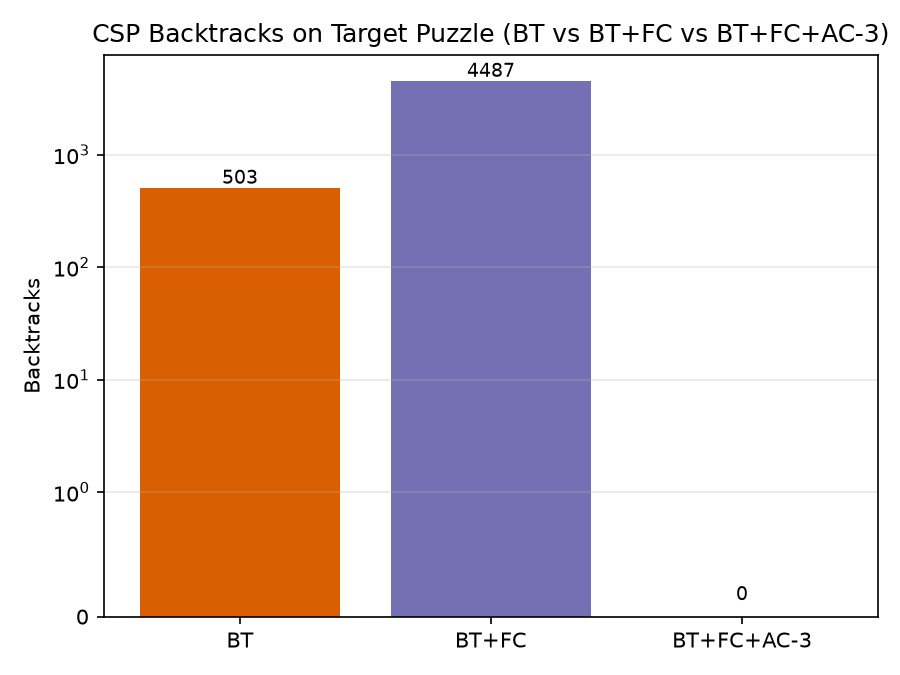
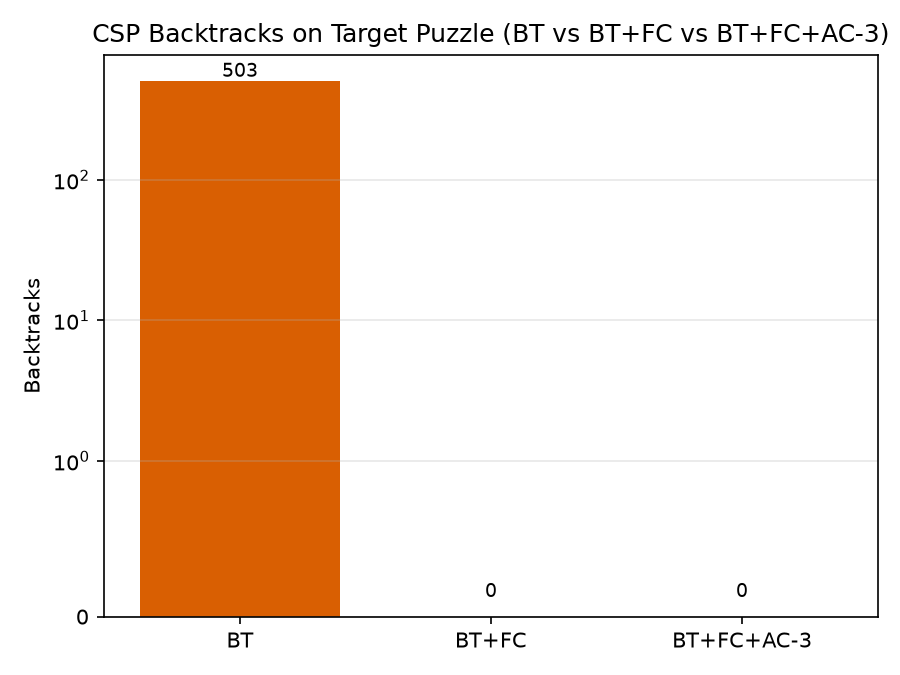
Add final documentation (REPORT, SLIDES, DEMO_SCRIPT, QA_PREP, CONTRIBUTION_TEMPLATE) and clean-state audit updates

diff --git a/REPORT.md b/REPORT.md
@@ -1,0 +1,185 @@
+# Handwritten Sudoku Reader and Solver (Project P7) — Technical Report
+
+## 1. Problem Statement & Motivation
+Optical Sudoku readers often misclassify one or more ambiguous handwritten digits. Even a single misread digit can turn a valid puzzle into an inconsistent or unsolvable constraint satisfaction problem (CSP), causing a standard Sudoku solver to fail.
+
+Project P7 combines three AI techniques into one pipeline:
+1. **Calibrated Neural Network (`DigitMLP`)**: Classifies non-blank `28x28` handwritten digit patches (`1–9`) and outputs calibrated probabilities via temperature scaling.
+2. **Constraint Satisfaction Problem (`CSPSolver`)**: Checks consistency of the `9x9` grid and solves Sudoku using Backtracking (MRV ordering), Forward Checking (`use_fc`), and Arc Consistency (`use_ac3`).
+3. **Correction Search (`UCS`, `Greedy`, `A*`)**: When the initial reading is unsolvable or ambiguous, searches over minimum-penalty cell corrections guided by the NN's probability distribution until the CSP verifies a solvable (or uniquely solvable) puzzle.
+
+---
+
+## 2. System Architecture & Design Choices
+
+### 2.1 Dataset & Preprocessing (`make_data.py`, `data/`)
+- **MNIST Digits `1–9`**: Starting from standard MNIST (`60,000` train / `10,000` test, `28x28` grayscale), pixel intensities are scaled to `[0.0, 1.0]`. Digit `0` is dropped first (`5,923` dropped from train, `980` from test) because Sudoku uses digits `1–9`.
+- **Single Label-Mapping Helper**: [`digit_to_index`](data/labels.py) and [`index_to_digit`](data/labels.py) map digits `1–9` to class indices `0–8` across all modules.
+- **Train / Validation / Test Split**: With `--seed 42`, the `54,077` non-zero training images are split into **`50,000` train** and **`4,077` validation** images; the **`9,020` test** images remain untouched (`data/DATA_DICTIONARY.md`).
+- **Blank Cell Rule**: Blank cells are detected by [`is_blank_cell`](data/labels.py) using mean pixel intensity `< 0.01`, not by the neural network. Across all `9,020` non-zero MNIST test digits, the minimum mean pixel intensity is `0.0281`, yielding `0` blank-detection errors across `500` evaluated mosaics (`results/mosaic_injection_report.json`).
+
+### 2.2 Puzzle & Mosaic Generation (`data/sudoku_generator.py`, `integration/reader.py`)
+- **Puzzles**: Complete `9x9` grids are built by randomized backtracking (`generate_full_grid`). Cells are removed in random order while preserving uniqueness (`count_solutions(puzzle, limit=2) == 1`) until the target givens (`25`, `30`, or `35`) remain.
+- **Post-Training Hard-Digit Injection**: `252x252` mosaics are generated **after** `DigitMLP` is trained. Normal givens sample from `easy_correct` (MNIST test images predicted correctly with confidence `>= 0.90`). To inject `k` misreads (`0..4`), `k` given cells are replaced with MNIST test images of the same true digit from `hard_misread` (test images misclassified by the trained NN, without replacement within a puzzle; fallback to `low_confidence` sorted by highest second-best probability if exhausted).
+- Across `100` mosaics per level `k = 0..4` (`30` givens, base seed `42` in `results/mosaic_injection_report.json`), the first NN reading differs from the true puzzle in **exactly `k` cells in `100/100` (`100.0%`)** mosaics at every level, with `0` blank-detection errors.
+
+---
+
+## 3. Neural Network Classifier & Calibration (`nn/`)
+
+### 3.1 Architecture & Training
+[`DigitMLP`](nn/model.py) is a 2-hidden-layer MLP (`784 -> 128 -> 64 -> 9` with ReLU activations) trained for `10` epochs (`batch_size=128`, `Adam lr=1e-3`, `--seed 42`) on the `50,000` training images. Temperature scaling (`TemperatureScaler`) fits a single scalar `T > 0` on the `4,077` validation logits via deterministic grid search minimizing validation NLL (`T = 1.2650`).
+
+### 3.2 Test Results vs. Logistic Regression Baseline (`results/nn_metrics.json`)
+| Model | Test Accuracy | Test NLL | Test ECE |
+| --- | ---: | ---: | ---: |
+| `DigitMLP` (before temp scaling) | `0.9772` | `0.0767` | `0.0071` |
+| `DigitMLP` (after temp scaling, `T=1.2650`) | `0.9772` | `0.0735` | `0.0023` |
+| `LogisticRegression` (`max_iter=500`) | `0.9237` | `0.2774` | `0.0064` |
+
+- Temperature scaling keeps accuracy unchanged (`0.9772`) while reducing test Expected Calibration Error (ECE) by more than **3×** (`0.0071 -> 0.0023`) and improving NLL (`0.0767 -> 0.0735`).
+- `DigitMLP` leaves `206 / 9,020` misclassified test digits (13–32 per digit `1–9`), providing real misreads for mosaic injection. Common confusions in `results/nn_confusion_matrix.png` include `4 -> 9` (12), `5 -> 3` (10), `1 -> 8` (9), `2 -> 8` (8), `7 -> 9` (8), `8 -> 4` (8), and `9 -> 4` (8).
+- **Plots**: `results/nn_confusion_matrix.png` (9x9 test confusion matrix) and `results/nn_calibration.png` (reliability diagram before/after temperature scaling vs. Logistic Regression).
+
+---
+
+## 4. Constraint Satisfaction Solver (`csp/`)
+
+[`CSPSolver`](csp/sudoku_csp.py) models Sudoku with 81 variables (`0..80`), domains `{1..9}` (fixed singletons for givens), and binary `!=` constraints across each cell's 20 row/column/box peers. It exposes two independent boolean switches:
+- **Plain Backtracking (`use_fc=False, use_ac3=False`)**: Blank domains stay `{1..9}`; MRV breaks ties in row-major order and checks peer consistency on assignment.
+- **Forward Checking (`use_fc=True, use_ac3=False`)**: Removes every given's digit from unassigned peers' domains before search, then prunes assigned values from unassigned peers during backtracking (restoring on backtrack).
+- **AC-3 Preprocessing (`use_ac3=True`)**: Enforces arc consistency across all `1,620` directed peer arcs before search starts, shrinking domains and immediately returning `status="inconsistent"` (`"no solution"`) if two equal givens in a unit empty a domain.
+- **Uniqueness Check**: `count_solutions(grid, limit=2)` stops as soon as `2` solutions are found.
+
+---
+
+## 5. Correction Search (`search/`)
+
+### 5.1 State Space & Cost Function
+- **State**: `frozenset` of `(cell_index, new_digit)` edits applied to `first_grid` (canonical order-independent representation with `closed` set and `best_g` tracking).
+- **Candidate Cell Rule**: Includes **all** non-blank cells currently in a duplicate-digit conflict plus the `10` lowest-confidence non-blank cells (`DEFAULT_LOW_CONF_THRESHOLD = 1.0`). Each candidate cell can change to one of its top-`3` alternative digits ranked by calibrated NN probability.
+- **Action Cost**:
+  $$\text{cost}(c, d_{\text{new}}) = \max\bigl(0,\; \log P(d_{\text{read}}) - \log P(d_{\text{new}})\bigr)$$
+  Path cost is the sum of action costs (`>= 0`). Default budget is `max_corrections = 3` (`4` allowed only for the `k = 4` misread level).
+- **Goal Test**: `CSPSolver(use_fc=True, use_ac3=True)` solves the corrected grid (optional `require_unique=True` requires `num_solutions == 1`). If no solvable grid is found within the budget, node limit, or timeout, search returns `"unreadable"` along with the least-confident cells.
+
+### 5.2 Algorithms & Admissibility Proof
+- **UCS**: Expands lowest cumulative `g(state)`. Guaranteed optimal because action costs are non-negative.
+- **Greedy Best-First**: Priority `(h(state), last_action_cost)`, minimizing remaining conflict heuristic with greedy tie-breaking on the last step cost (ignoring cumulative `g`).
+- **A\***: Priority `g(state) + h(state)`. [`conflict_heuristic`](search/correction_search.py) computes `h(state)` over a pairwise cell-disjoint set $P$ of active duplicate-digit conflict pairs $(u, v)$:
+  $$h(\text{state}) = \sum_{(u, v) \in P} \min\bigl(\text{min\_alt\_cost}(u),\; \text{min\_alt\_cost}(v)\bigr)$$
+  - **Conflict-free grids**: $P = \emptyset \implies h = 0$.
+  - **Admissibility ($h \le h^*$)**: Every pair $(u, v) \in P$ is an active duplicate conflict that must be broken to reach solvability. Because pairs in $P$ share no cells, no single cell change can resolve two pairs in $P$, and each uncorrected cell costs at least its smallest top-3 alternative penalty (`>= 0`). Thus $h$ never overestimates remaining cost.
+
+### 5.3 Search Diagnostic (`results/search_diagnostic.json`)
+On `20` puzzles/level (`30` givens, `seed=42`, `k=1,2,3`), `UCS` and `A*` had **`0` path-cost mismatches** across all `120` runs (`require_unique=False` and `True`). Failure breakdown (`a`: no conflict detected so `0` corrections accepted; `b`: different cheaper solvable fix accepted; `c`: budget/unreadable):
+- `k=1`: `unique=False` recovered `17/20 (85.0%)` (`3` type-`a` failures), `unique=True` recovered `19/20 (95.0%)` (`1` type-`a` failure).
+- `k=2`: `unique=False` recovered `13/20 (65.0%)` (`7` type-`b` failures), `unique=True` recovered `14/20 (70.0%)` (`5` type-`b`, `1` type-`c`).
+- `k=3`: `unique=False` recovered `11/20 (55.0%)` (`9` type-`b` failures), `unique=True` recovered `18/20 (90.0%)` (`2` type-`b` failures).
+
+---
+
+## 6. End-to-End Integration & Demo (`integration/`, `run_demo.py`)
+
+[`solve_sudoku_mosaic`](integration/pipeline.py) ties together `read_grid` -> initial AC-3 check -> `search_corrections` (skipped under `--no-nn`) -> final CSP verification.
+
+On the traced 2-misread demo (`--seed 43 --misreads 2 --algo astar --trace`, `results/demo/demo_summary.json`):
+- **Injected cells**: `(0, 3)` and `(3, 8)`.
+- **AC-3 Check**: `status="inconsistent"`, detecting duplicate `8` at `((0, 3), (4, 3))` and duplicate `4` at `((3, 5), (3, 8))`.
+- **A\* Search**: Expanded `8` nodes (`path_cost = 1.3098`), logging `(0, 3): 8 -> 3 (cost=0.6598)` and `(3, 8): 4 -> 5 (cost=0.6499)`, and recovered the exact true solution (`exact_recovery=True`).
+- **CSP on corrected puzzle**: `BT` took `503` backtracks (`3.39 ms`), whereas `BT+FC` (`0.32 ms`) and `BT+FC+AC-3` (`1.65 ms`) both solved with `0` backtracks.
+- **Demo Plots**: `results/demo/input_mosaic.png`, `results/demo/corrected_grid.png`, `results/demo/csp_backtracks.png`, `results/demo/search_nodes.png`.
+
+---
+
+## 7. Multi-Seed Experiments (`eval/run_experiments.py`)
+
+All three experiments used **`5` seeds** (`42, 43, 44, 45, 46`), **`20` puzzles per seed per level** (`100` puzzles total per level), per-puzzle timeout **`2.5s`**, and search node limit **`5000`** (`results/NOTES.md`).
+
+### 7.1 Experiment 1: `UCS` vs `Greedy` vs `A*` (`results/exp1_summary.md`, `results/exp1_search.png`)
+| require_unique | k | algo | recovery_rate | nodes_expanded | path_cost | timeouts |
+| --- | --- | --- | --- | --- | --- | --- |
+| False | 0 | UCS | 100.0% +/- 0.0% | 0.00 +/- 0.00 | 0.00 +/- 0.00 | 0 total (0.00 +/- 0.00/seed) |
+| False | 0 | GREEDY | 100.0% +/- 0.0% | 0.00 +/- 0.00 | 0.00 +/- 0.00 | 0 total (0.00 +/- 0.00/seed) |
+| False | 0 | ASTAR | 100.0% +/- 0.0% | 0.00 +/- 0.00 | 0.00 +/- 0.00 | 0 total (0.00 +/- 0.00/seed) |
+| True | 0 | UCS | 100.0% +/- 0.0% | 0.00 +/- 0.00 | 0.00 +/- 0.00 | 0 total (0.00 +/- 0.00/seed) |
+| True | 0 | GREEDY | 100.0% +/- 0.0% | 0.00 +/- 0.00 | 0.00 +/- 0.00 | 0 total (0.00 +/- 0.00/seed) |
+| True | 0 | ASTAR | 100.0% +/- 0.0% | 0.00 +/- 0.00 | 0.00 +/- 0.00 | 0 total (0.00 +/- 0.00/seed) |
+| False | 1 | UCS | 80.0% +/- 5.0% | 2.31 +/- 0.29 | 1.44 +/- 0.33 | 0 total (0.00 +/- 0.00/seed) |
+| False | 1 | GREEDY | 81.0% +/- 5.5% | 2.67 +/- 1.35 | 1.47 +/- 0.32 | 0 total (0.00 +/- 0.00/seed) |
+| False | 1 | ASTAR | 80.0% +/- 5.0% | 2.01 +/- 0.16 | 1.44 +/- 0.33 | 0 total (0.00 +/- 0.00/seed) |
+| True | 1 | UCS | 93.0% +/- 2.7% | 3.29 +/- 1.03 | 1.71 +/- 0.23 | 0 total (0.00 +/- 0.00/seed) |
+| True | 1 | GREEDY | 93.0% +/- 2.7% | 3.83 +/- 2.06 | 1.71 +/- 0.23 | 0 total (0.00 +/- 0.00/seed) |
+| True | 1 | ASTAR | 93.0% +/- 2.7% | 2.65 +/- 0.62 | 1.71 +/- 0.23 | 0 total (0.00 +/- 0.00/seed) |
+| False | 2 | UCS | 67.0% +/- 2.7% | 21.52 +/- 15.97 | 3.51 +/- 0.57 | 0 total (0.00 +/- 0.00/seed) |
+| False | 2 | GREEDY | 63.0% +/- 4.5% | 12.74 +/- 7.99 | 3.73 +/- 0.68 | 0 total (0.00 +/- 0.00/seed) |
+| False | 2 | ASTAR | 67.0% +/- 2.7% | 10.82 +/- 9.40 | 3.51 +/- 0.57 | 0 total (0.00 +/- 0.00/seed) |
+| True | 2 | UCS | 89.0% +/- 11.4% | 44.87 +/- 53.47 | 3.88 +/- 0.28 | 0 total (0.00 +/- 0.00/seed) |
+| True | 2 | GREEDY | 87.0% +/- 9.7% | 41.05 +/- 53.91 | 4.08 +/- 0.41 | 0 total (0.00 +/- 0.00/seed) |
+| True | 2 | ASTAR | 89.0% +/- 11.4% | 34.65 +/- 55.55 | 3.88 +/- 0.28 | 0 total (0.00 +/- 0.00/seed) |
+| False | 3 | UCS | 53.0% +/- 8.4% | 72.62 +/- 40.01 | 5.49 +/- 1.16 | 0 total (0.00 +/- 0.00/seed) |
+| False | 3 | GREEDY | 46.0% +/- 12.4% | 20.94 +/- 10.35 | 6.07 +/- 1.27 | 0 total (0.00 +/- 0.00/seed) |
+| False | 3 | ASTAR | 53.0% +/- 8.4% | 20.31 +/- 9.99 | 5.49 +/- 1.16 | 0 total (0.00 +/- 0.00/seed) |
+| True | 3 | UCS | 80.0% +/- 9.4% | 94.01 +/- 32.54 | 6.08 +/- 0.98 | 0 total (0.00 +/- 0.00/seed) |
+| True | 3 | GREEDY | 76.0% +/- 10.8% | 31.03 +/- 11.25 | 6.57 +/- 1.00 | 0 total (0.00 +/- 0.00/seed) |
+| True | 3 | ASTAR | 80.0% +/- 9.4% | 26.91 +/- 9.18 | 6.08 +/- 0.98 | 0 total (0.00 +/- 0.00/seed) |
+| False | 4 | UCS | 37.0% +/- 9.7% | 394.49 +/- 327.41 | 6.65 +/- 1.15 | 0 total (0.00 +/- 0.00/seed) |
+| False | 4 | GREEDY | 32.0% +/- 9.1% | 281.77 +/- 308.86 | 7.83 +/- 1.47 | 0 total (0.00 +/- 0.00/seed) |
+| False | 4 | ASTAR | 37.0% +/- 9.7% | 142.97 +/- 183.66 | 6.65 +/- 1.15 | 0 total (0.00 +/- 0.00/seed) |
+| True | 4 | UCS | 66.0% +/- 6.5% | 543.24 +/- 299.48 | 7.12 +/- 0.88 | 0 total (0.00 +/- 0.00/seed) |
+| True | 4 | GREEDY | 59.0% +/- 8.9% | 475.64 +/- 316.45 | 8.57 +/- 2.18 | 0 total (0.00 +/- 0.00/seed) |
+| True | 4 | ASTAR | 66.0% +/- 6.5% | 293.38 +/- 230.99 | 7.12 +/- 0.88 | 0 total (0.00 +/- 0.00/seed) |
+
+`A*` matches `UCS`'s exact path cost and recovery at every level while expanding far fewer nodes (e.g., at `k=3, require_unique=True`: `26.91` vs `94.01`; at `k=4, require_unique=True`: `293.38` vs `543.24`). `Greedy` expands fewer nodes than `UCS` on harder grids but pays higher path cost and lower recovery (`59.0%` vs `66.0%` at `k=4, require_unique=True`).
+
+### 7.2 Experiment 2: `BT` vs `BT+FC` vs `BT+FC+AC-3` (`results/exp2_summary.md`, `results/exp2_csp.png`)
+| givens | solver | assignments | backtracks | time_ms | timeouts |
+| --- | --- | --- | --- | --- | --- |
+| 25 | BT | 41974.84 +/- 28252.15 | 41919.38 +/- 28253.26 | 242.69 +/- 157.29 | 2 total (0.40 +/- 0.89/seed) |
+| 25 | BT+FC | 315.87 +/- 139.80 | 259.87 +/- 139.80 | 1.31 +/- 0.50 | 0 total (0.00 +/- 0.00/seed) |
+| 25 | BT+FC+AC-3 | 315.87 +/- 139.80 | 259.87 +/- 139.80 | 2.51 +/- 0.46 | 0 total (0.00 +/- 0.00/seed) |
+| 30 | BT | 5009.64 +/- 2618.98 | 4958.64 +/- 2618.98 | 28.88 +/- 15.50 | 0 total (0.00 +/- 0.00/seed) |
+| 30 | BT+FC | 77.72 +/- 11.22 | 26.72 +/- 11.22 | 0.40 +/- 0.04 | 0 total (0.00 +/- 0.00/seed) |
+| 30 | BT+FC+AC-3 | 77.72 +/- 11.22 | 26.72 +/- 11.22 | 1.75 +/- 0.16 | 0 total (0.00 +/- 0.00/seed) |
+| 35 | BT | 835.77 +/- 509.37 | 789.77 +/- 509.37 | 4.86 +/- 2.95 | 0 total (0.00 +/- 0.00/seed) |
+| 35 | BT+FC | 49.34 +/- 2.49 | 3.34 +/- 2.49 | 0.28 +/- 0.02 | 0 total (0.00 +/- 0.00/seed) |
+| 35 | BT+FC+AC-3 | 49.34 +/- 2.49 | 3.34 +/- 2.49 | 1.65 +/- 0.02 | 0 total (0.00 +/- 0.00/seed) |
+
+### 7.3 Experiment 3: `NN-guided` vs `No-correction` vs `Random-correction` (`results/exp3_summary.md`, `results/exp3_ablation.png`)
+| k | method | recovery_rate | nodes_expanded | timeouts |
+| --- | --- | --- | --- | --- |
+| 0 | NN-guided | 100.0% +/- 0.0% | 0.00 +/- 0.00 | 0 total (0.00 +/- 0.00/seed) |
+| 0 | No-correction | 100.0% +/- 0.0% | 0.00 +/- 0.00 | 0 total (0.00 +/- 0.00/seed) |
+| 0 | Random-correction | 100.0% +/- 0.0% | 0.00 +/- 0.00 | 0 total (0.00 +/- 0.00/seed) |
+| 1 | NN-guided | 93.0% +/- 2.7% | 2.65 +/- 0.62 | 0 total (0.00 +/- 0.00/seed) |
+| 1 | No-correction | 0.0% +/- 0.0% | 0.00 +/- 0.00 | 0 total (0.00 +/- 0.00/seed) |
+| 1 | Random-correction | 25.0% +/- 7.1% | 684.35 +/- 256.46 | 0 total (0.00 +/- 0.00/seed) |
+| 2 | NN-guided | 89.0% +/- 11.4% | 34.65 +/- 55.55 | 0 total (0.00 +/- 0.00/seed) |
+| 2 | No-correction | 0.0% +/- 0.0% | 0.00 +/- 0.00 | 0 total (0.00 +/- 0.00/seed) |
+| 2 | Random-correction | 6.0% +/- 4.2% | 2478.03 +/- 480.50 | 0 total (0.00 +/- 0.00/seed) |
+| 3 | NN-guided | 80.0% +/- 9.4% | 26.91 +/- 9.18 | 0 total (0.00 +/- 0.00/seed) |
+| 3 | No-correction | 0.0% +/- 0.0% | 0.00 +/- 0.00 | 0 total (0.00 +/- 0.00/seed) |
+| 3 | Random-correction | 0.0% +/- 0.0% | 3926.59 +/- 193.69 | 0 total (0.00 +/- 0.00/seed) |
+| 4 | NN-guided | 66.0% +/- 6.5% | 293.38 +/- 230.99 | 0 total (0.00 +/- 0.00/seed) |
+| 4 | No-correction | 0.0% +/- 0.0% | 0.00 +/- 0.00 | 0 total (0.00 +/- 0.00/seed) |
+| 4 | Random-correction | 0.0% +/- 0.0% | 4356.36 +/- 158.69 | 24 total (4.80 +/- 1.48/seed) |
+
+---
+
+## 8. Limitations & Methodological Notes
+1. **Synthetic Mosaics, Not Photographed Sudoku**: Inputs are `252x252` grayscale composites of centered `28x28` MNIST digits and pure-zero blank tiles, not camera-captured grids with lighting, perspective skew, or grid-line artifacts.
+2. **Injected Misreads vs. Natural Frequency**: Misread digits (`k=0..4`) are deliberately injected from `hard_misread` (MNIST test images the NN gets wrong). Experiments therefore measure **recovery conditional on `k` misreads**, not natural end-to-end misread frequency on random MNIST boards.
+3. **Candidate-Cell Rule Tuning**: `DEFAULT_LOW_CONF_THRESHOLD = 1.0` (always taking the top-`10` lowest-confidence cells plus all conflict cells) was tuned after inspecting `20` puzzles in the initial `k=1` check, where a `0.989`-confidence misread (`i=17`) had been excluded by `0.98`.
+4. **Demo Seed Selection**: Demo seeds (`42` for `k=0,1` and `43` for `k=2`) were selected specifically to show clean AC-3 conflict detection and successful recovery.
+5. **Initial `BT+FC` Bug & Exp 2 Rerun**: An initial `BT+FC` implementation did not prune givens from peer domains up front, causing MRV to chase peers of early guesses and making `BT+FC` worse than plain `BT` (`52616.65` vs `41756.40` backtracks at 25 givens; `6026.63` vs `4958.64` at 30 givens; archived in `results/old_exp2/`). `csp/fc_diagnostic.py` (`results/fc_diagnostic.json`) isolated the bug, `csp/sudoku_csp.py` was fixed, and Exp 2 was rerun.
+6. **`BT+FC` vs `BT+FC+AC-3` Equivalence on Solvable Puzzles**: In the final Exp 2, `BT+FC` and `BT+FC+AC-3` have identical `assignments` and `backtracks` (`259.87` at 25 givens, `26.72` at 30 givens, `3.34` at 35 givens) because `BT+FC`'s upfront given pruning matches AC-3's first pass on Sudoku; AC-3 therefore only adds preprocessing time on valid grids (`2.51 ms` vs `1.31 ms` at 25 givens). AC-3's practical value in this system is **early conflict detection** (`"inconsistent"`, `0` assignments/backtracks) on broken grids.
+7. **Timeouts**: With a `2.5s` per-puzzle timeout, `BT` timed out `2` times (`0.40 +/- 0.89`/seed) at `25` givens in Exp 2, and `Random-correction` timed out `24` times (`4.80 +/- 1.48`/seed) at `k=4` in Exp 3.
+8. **Experiment Sample Size**: All three experiments used `5` seeds (`42..46`) × `20` puzzles per level (`100` puzzles total per level across seeds), rather than `100` puzzles per seed (`500` total), to keep total runtime (~10.0 min) under 20 minutes (`results/NOTES.md`).
+9. **Correction Budget**: Maximum corrections is `3` by default, with `max_corrections = 4` enabled only for the `k = 4` misread level.
+10. **Uniqueness vs. Search Cost**: Enabling `require_unique=True` raises exact recovery (e.g., Exp 1 UCS/A\* `k=3`: `53.0% -> 80.0%`; `k=4`: `37.0% -> 66.0%`), at the cost of expanding more nodes (`k=3` UCS: `72.62 -> 94.01`; `k=4` UCS: `394.49 -> 543.24`).
+
+---
+
+## 9. Conclusions
+Combining a temperature-scaled digit classifier (`97.72%` test accuracy, `0.0023` ECE), AC-3/FC Sudoku solving (`26.72` vs `4958.64` backtracks at 30 givens), and admissible `A*` correction search yields a reliable, interpretable reader-and-solver pipeline. NN-guided `A*` with `require_unique=True` recovers `93.0%`, `89.0%`, `80.0%`, and `66.0%` of puzzles across `1–4` injected misreads, compared to `0.0%` without correction and `0.0%–25.0%` under random correction.
+

diff --git a/QA_PREP.md b/QA_PREP.md
@@ -1,0 +1,47 @@
+# Q&A Preparation (`QA_PREP.md`)
+
+1. **Why does Forward Checking (`BT+FC`) reduce backtracks so drastically compared to plain `BT`?**
+   Because `BT+FC` prunes every given's digit from its peers' domains before search and removes assigned values from unassigned peers during search. That exposes forced singles (`domain size == 1`) immediately to MRV instead of guessing blindly over `{1..9}` (`4958.64 -> 26.72` backtracks at 30 givens in Exp 2).
+
+2. **Why does `BT+FC+AC-3` have the exact same assignments and backtracks as `BT+FC` in Exp 2?**
+   Because on valid Sudoku puzzles, `BT+FC`'s upfront peer pruning from givens produces the same initial domains as AC-3's first pass (`len(domain) == 1` arc revisions), and MRV picks size-1 variables next anyway. Thus `AC-3` only adds preprocessing time on solvable grids (`2.51 ms` vs `1.31 ms` at 25 givens); its value here is **early conflict detection** (`status="inconsistent"` with `0` assignments) on misread grids.
+
+3. **Why did `BT+FC` originally have *more* backtracks than `BT` before your fix?**
+   Originally, `use_fc=True` did not prune initial givens from peer domains before search, so MRV jumped to peers of early guessed cells whose domains still held invalid digits forbidden by the givens. We caught this with `csp/fc_diagnostic.py`, fixed `CSPSolver.solve`, reran Exp 2, and archived the old results in `results/old_exp2/`.
+
+4. **Why is the action cost `max(0, log(p_read) - log(p_new))` (difference of negative log-probabilities)?**
+   Maximizing the joint probability $\prod_i P(d_i)$ of the board is equivalent to minimizing $\sum_i -\log P(d_i)$. Relative to the baseline first reading, changing cell $c$ from $d_{\text{read}}$ to $d_{\text{new}}$ adds penalty $(-\log P(d_{\text{new}})) - (-\log P(d_{\text{read}})) = \log P(d_{\text{read}}) - \log P(d_{\text{new}}) \ge 0$, making path costs additive and non-negative.
+
+5. **Why is Uniform Cost Search (UCS) guaranteed to find the cheapest correction set?**
+   Every action cost is $\ge 0$ (`max(0.0, ...)`), states are canonical `frozenset`s with a `closed` set and `best_g` check, and the goal test runs on pop. Therefore, the first goal state popped by UCS is guaranteed to have minimum total path cost.
+
+6. **Why does the `A*` heuristic `h(state)` never overestimate (`h <= h*`)?**
+   `conflict_heuristic` collects a pairwise **cell-disjoint** set $P$ of active duplicate-digit conflict pairs $(u, v)$. Every pair $(u, v) \in P$ must have at least one cell changed to become conflict-free, and because pairs in $P$ share no cells, no single edit can resolve two pairs in $P$. Summing $\min(\text{min\_alt\_cost}(u), \text{min\_alt\_cost}(v))$ over $P$ is therefore a strict lower bound on remaining cost, and returns `0.0` on any conflict-free grid.
+
+7. **Why does `require_unique=True` improve exact recovery (`53% -> 80%` at `k=3`)?**
+   With `require_unique=False`, changing fewer cells than `k` can accidentally yield an under-constrained puzzle that still has *some* valid Sudoku solution—just not the true one (`results/search_diagnostic.json` showed `9/9` `k=3` failures were cheaper wrong solvable fixes). Requiring a unique solution rejects those ambiguous grids so search continues to the true correction, at the cost of extra nodes (`94.01` vs `72.62` for UCS at `k=3`).
+
+8. **Why does temperature scaling improve calibration without changing accuracy?**
+   Dividing logits by a positive scalar $T$ (`T=1.2650` fitted on the `4,077` validation images) preserves the `argmax` order of classes, so test accuracy stays `0.9772`, while softening overconfident logits lowers test ECE from `0.0071` to `0.0023` (`results/nn_metrics.json`).
+
+9. **Why not use the neural network to detect blank cells?**
+   A brightness rule (`mean < 0.01`) is simpler, deterministic, and avoids forcing a `1–9` classifier to guess on empty tiles. Across all `9,020` non-zero MNIST test digits, the minimum mean brightness is `0.0281`, so blank detection had `0` errors across all `500` mosaics (`results/mosaic_injection_report.json`).
+
+10. **Why did you drop digit `0` before splitting train and validation?**
+    Sudoku uses digits `1–9` only (`9` classes mapped via `digit_to_index` to `0–8`). Dropping `0` first (`5,923` from train, `980` from test) keeps the `50,000 / 4,077 / 9,020` split purely over valid Sudoku digits while leaving the test set untouched.
+
+11. **Why did `Greedy` occasionally expand slightly *more* nodes than `A*` (e.g., `31.03` vs `26.91` at `k=3, unique=True`)?**
+    `Greedy` uses priority `(h, last_action_cost)` and ignores cumulative `g`. When multiple states have `h = 0` or equal `h`, Greedy can explore a locally tempting dead-end branch that `A*` avoids because `g + h` penalizes high cumulative cost.
+
+12. **Why does recovery drop from `93%` (`k=1`) to `66%` (`k=4`) even with `require_unique=True`?**
+    Two reasons: (1) an injected misread's true digit may rank outside the top-3 alternatives or the cell may fall outside the top-10 lowest-confidence candidates, and (2) with `4` wrong givens, another uniquely solvable puzzle can occasionally exist at a lower log-probability penalty.
+
+13. **Why is `max_corrections=4` allowed only for `k=4`?**
+    By default the solver caps edits at `3` (`DEFAULT_MAX_CORRECTIONS = 3`) to bound the combinatorial branching factor ($\binom{n}{k} \cdot 3^k$) and prevent excessive hallucinated edits. Level `k=4` in Exp 1/3 specifically raises the budget to `4` so recovering `4` injected errors is possible.
+
+14. **Why did `Random-correction` time out `24` times at `k=4` in Exp 3?**
+    Without NN confidence or digit ranking, `Random-correction` expands blind subsets across arbitrary non-blank cells and random digits, hitting the `5000`-node / `2.5s` per-puzzle budget at `k=4` (`0.0%` recovery) while `NN-guided` `A*` averages `293.38` nodes with `0` timeouts (`66.0%` recovery).
+
+15. **Could this system run directly on a phone photo of a newspaper Sudoku?**
+    Not without a computer-vision front end: our inputs are clean `252x252` MNIST composites with zero-intensity blank tiles and no perspective distortion, grid lines, or lighting noise, and our misreads are injected from `hard_misread` rather than measured on photographed digits.
+

diff --git a/SLIDES.md b/SLIDES.md
@@ -1,0 +1,64 @@
+# 10-Minute Presentation Outline (`SLIDES.md`)
+
+**Target pacing:** ~10 slides (~1 minute per slide), followed by the 5-minute live demo (`DEMO_SCRIPT.md`).
+
+---
+
+### Slide 1 — Title & Motivation (0:00–1:00)
+- **Title**: Handwritten Sudoku Reader and Solver (Project P7)
+- **Problem**: One misread handwritten digit breaks an entire Sudoku puzzle.
+- **Core Idea**: Combine a calibrated Neural Network + Search + CSP so uncertain NN predictions become soft costs rather than hard errors.
+- **Figure**: `results/demo/input_mosaic.png`
+
+### Slide 2 — End-to-End Pipeline (1:00–2:00)
+- **Flow**: `252x252` mosaic -> brightness blank rule (`mean < 0.01`, not NN) -> `DigitMLP` calibrated probabilities -> AC-3 conflict check -> `A*` / `UCS` correction search -> `CSPSolver` solution.
+- **Dataset**: MNIST digits `1–9` (`50,000` train / `4,077` val / `9,020` test; `0` dropped first).
+- **Figure**: `results/demo/corrected_grid.png`
+
+### Slide 3 — Neural Network & Calibration (2:00–3:00)
+- **Model**: `DigitMLP` (`784 -> 128 -> 64 -> 9`) vs `LogisticRegression`.
+- **Accuracy**: `97.72%` vs `92.37%` (`206 / 9,020` test misreads).
+- **Temperature Scaling (`T=1.2650`)**: ECE drops `0.0071 -> 0.0023` (over 3× better calibration; NLL `0.0767 -> 0.0735`).
+- **Figure**: `results/nn_calibration.png`
+
+### Slide 4 — Error Patterns & Hard-Digit Injection (3:00–4:00)
+- **Confusion Matrix**: Real MNIST errors (e.g., `4->9`, `5->3`, `1->8`).
+- **Mosaic Injection**: `100/100` exact `k`-misread rates for `k=0..4` and `0` blank errors (`results/mosaic_injection_report.json`).
+- **Figure**: `results/nn_confusion_matrix.png`
+
+### Slide 5 — Sudoku CSP & Switchable Pruning (4:00–5:00)
+- **Formulation**: `81` cells, domains `1–9`, row/col/box `!=` constraints, MRV ordering.
+- **Switches**: Plain `BT` vs `BT+FC` (upfront given pruning + live peer pruning) vs `BT+FC+AC-3` (arc-consistency preprocessing + early conflict detection).
+- **Figure**: `results/demo/csp_backtracks.png`
+
+### Slide 6 — Exp 2: CSP Pruning Results (5:00–6:00)
+- **25/30/35 givens (5 seeds × 20 puzzles)**:
+  - `30` givens: `BT` `4958.64` backtracks -> `BT+FC` `26.72` -> `BT+FC+AC-3` `26.72`.
+  - `25` givens: `BT` `41919.38` (`2` timeouts) -> `BT+FC` `259.87` (`1.31 ms`) & `BT+FC+AC-3` `259.87` (`2.51 ms`).
+- **Key insight**: On valid Sudoku grids FC's initial pruning matches AC-3's first pass; AC-3's key advantage here is instant conflict detection (`status="inconsistent"`).
+- **Figure**: `results/exp2_csp.png`
+
+### Slide 7 — Correction Search: UCS, Greedy & Admissible A\* (6:00–7:00)
+- **State**: `frozenset` of `(cell, new_digit)`, max `3` corrections (`4` for `k=4`).
+- **Cost**: `max(0, log(p_read) - log(p_new))` (non-negative).
+- **A\* Heuristic**: Sum of minimum correction costs over cell-disjoint duplicate conflict pairs (`h = 0` when conflict-free; never overestimates).
+- **Figure**: `results/demo/search_nodes.png`
+
+### Slide 8 — Exp 1: Search Comparison & Uniqueness Goal (7:00–8:00)
+- **Optimality**: `0` path-cost mismatches between `UCS` and `A*` (`results/search_diagnostic.json`).
+- **Efficiency**: At `k=3` (`require_unique=True`), `A*` expands `26.91` nodes vs `UCS` `94.01` while achieving identical `80.0%` recovery.
+- **Uniqueness effect**: `require_unique=True` boosts `k=3` recovery `53.0% -> 80.0%` and `k=4` `37.0% -> 66.0%` by rejecting ambiguous cheaper fixes.
+- **Figure**: `results/exp1_search.png`
+
+### Slide 9 — Exp 3: NN-Guided vs Baselines (8:00–9:00)
+- **Ablation (`k=0..4`, `require_unique=True`)**:
+  - `NN-guided`: `100% -> 93% -> 89% -> 80% -> 66%` recovery (`0` timeouts).
+  - `No-correction`: `0%` for all `k >= 1`.
+  - `Random-correction`: `25%` (`k=1`), `6%` (`k=2`), `0%` (`k=3,4`; `24` timeouts at `k=4`).
+- **Figure**: `results/exp3_ablation.png`
+
+### Slide 10 — Limits, Lessons Learned & Conclusion (9:00–10:00)
+- **Honest Limits**: Synthetic `252x252` mosaics (not camera photos); injected misreads measure recovery given `k`; candidate-cell rule tuned on 20 puzzles; `BT+FC` initial bug caught via diagnostic (`results/old_exp2/`).
+- **Takeaway**: Calibrated NN probabilities + admissible `A*` + AC-3/FC CSP turns brittle optical digit reading into a `66%–93%` recoverable solver.
+- **Figure**: `results/exp3_ablation.png` (or `results/demo/corrected_grid.png`)
+

diff --git a/DEMO_SCRIPT.md b/DEMO_SCRIPT.md
@@ -1,0 +1,51 @@
+# 5-Minute Live Demo Script (`DEMO_SCRIPT.md`)
+
+Run all commands from the project root (`D:\University\Intelligent Systems\Project`) using `.venv\Scripts\python.exe`.
+
+---
+
+### Part 1 — Clean Puzzle Baseline (0:00–1:00)
+Show that when there are `0` misreads, AC-3 + CSP solves immediately with `0` search nodes expanded:
+```powershell
+.venv\Scripts\python.exe run_demo.py --seed 42 --misreads 0
+```
+- **Point out**: `duplicate_conflicts=[]`, `nodes_expanded=0`, `Correction Log: (none)`, `Equals true solution: True`.
+
+---
+
+### Part 2 — Search Trace & CSP Pruning Comparison (1:00–3:30)
+Use **`--seed 43 --misreads 2`**, where **`BT` clearly loses to `BT+FC`** (`503` backtracks vs `0` backtracks) and `A*` solves in `8` traced steps:
+```powershell
+.venv\Scripts\python.exe run_demo.py --seed 43 --misreads 2 --algo astar --trace
+```
+- **Point out step by step**:
+  1. **AC-3 Conflict Detection**: `status=inconsistent`, detects duplicate `8` at `((0, 3), (4, 3))` and duplicate `4` at `((3, 5), (3, 8))`.
+  2. **Search Trace (`--trace`)**: Steps `1..8` show `g`, `h`, and `f = g + h` monotonically guiding `A*` to resolve both conflicts (`h` drops from `0.8887 -> 0.6499 -> 0.0`).
+  3. **Correction Log**:
+     - `(0, 3): 8 -> 3 (cost=0.6598)`
+     - `(3, 8): 4 -> 5 (cost=0.6499)`
+     - Final grid matches true solution (`Equals true solution: True`).
+  4. **CSP Pruning (`BT` vs `BT+FC` vs `BT+FC+AC-3`)**:
+     - `BT`: `554` assignments, **`503` backtracks** (`3.39 ms`)
+     - `BT+FC`: `51` assignments, **`0` backtracks** (`0.32 ms`)
+     - `BT+FC+AC-3`: `51` assignments, **`0` backtracks** (`1.65 ms`)
+
+---
+
+### Part 3 — NN-On vs NN-Off (`--no-nn`) (3:30–4:30)
+Run the exact same broken mosaic with `--no-nn` to skip NN-guided correction search:
+```powershell
+.venv\Scripts\python.exe run_demo.py --seed 43 --misreads 2 --no-nn
+```
+- **Point out**:
+  - Without NN-guided search, AC-3 immediately fails (`unreadable (--no-nn skipped corrections): no solution: inconsistent puzzle`), and prints the least confident cells (`(0, 3)` confidence `0.3311`, `(3, 8)` confidence `0.5712`) — the exact two cells that `A*` fixed in Part 2.
+
+---
+
+### Part 4 — Visual Walkthrough of Saved Plots (4:30–5:00)
+Re-run the traced 2-misread demo (if needed) and open the 4 generated plots in `results/demo/`:
+1. `results/demo/input_mosaic.png` — raw `252x252` handwritten digit grid
+2. `results/demo/corrected_grid.png` — NN confidence heatmap with red corrected cells
+3. `results/demo/csp_backtracks.png` — bar chart showing `BT` losing badly to `BT+FC` and `BT+FC+AC-3`
+4. `results/demo/search_nodes.png` — bar chart comparing `UCS`, `Greedy`, and `A*` nodes expanded
+

diff --git a/README.md b/README.md
@@ -25,9 +25,7 @@ pip install --upgrade pip
 pip install -r requirements.txt
 ```
 
-> Note: `requirements.txt` pins CPU PyTorch (`torch==2.15.0+cpu`, `torchvision==0.29.2+cpu`). If installing from a clean environment on Windows without the PyTorch CPU index configured, install `torch` and `torchvision` first with:
-> `pip install torch==2.15.0+cpu torchvision==0.29.2+cpu --index-url https://download.pytorch.org/whl/cpu`
-> followed by `pip install -r requirements.txt`.
+> Note: `requirements.txt` pins CPU PyTorch (`torch==2.15.0+cpu`, `torchvision==0.29.2+cpu`) and includes `--extra-index-url https://download.pytorch.org/whl/cpu` so `pip install -r requirements.txt` works directly.
 
 ## Exact Run Commands
 

diff --git a/CONTRIBUTION_TEMPLATE.md b/CONTRIBUTION_TEMPLATE.md
@@ -1,0 +1,28 @@
+# Individual Contribution Statement Template (`CONTRIBUTION_TEMPLATE.md`)
+
+> Guideline from `IS Projects.pdf`: max **200 words** per team member, plus `git log`.
+
+## Team Member 1
+- **Name**: ____________________________
+- **Student ID**: ______________________
+- **Contribution (max 200 words)**:
+
+  *(Write your individual contribution summary here.)*
+
+---
+
+## Team Member 2 *(remove if solo)*
+- **Name**: ____________________________
+- **Student ID**: ______________________
+- **Contribution (max 200 words)**:
+
+  *(Write team member 2's contribution summary here.)*
+
+---
+
+## Git Log Command
+Run to include commit history:
+```powershell
+git log --oneline --stat
+```
+
